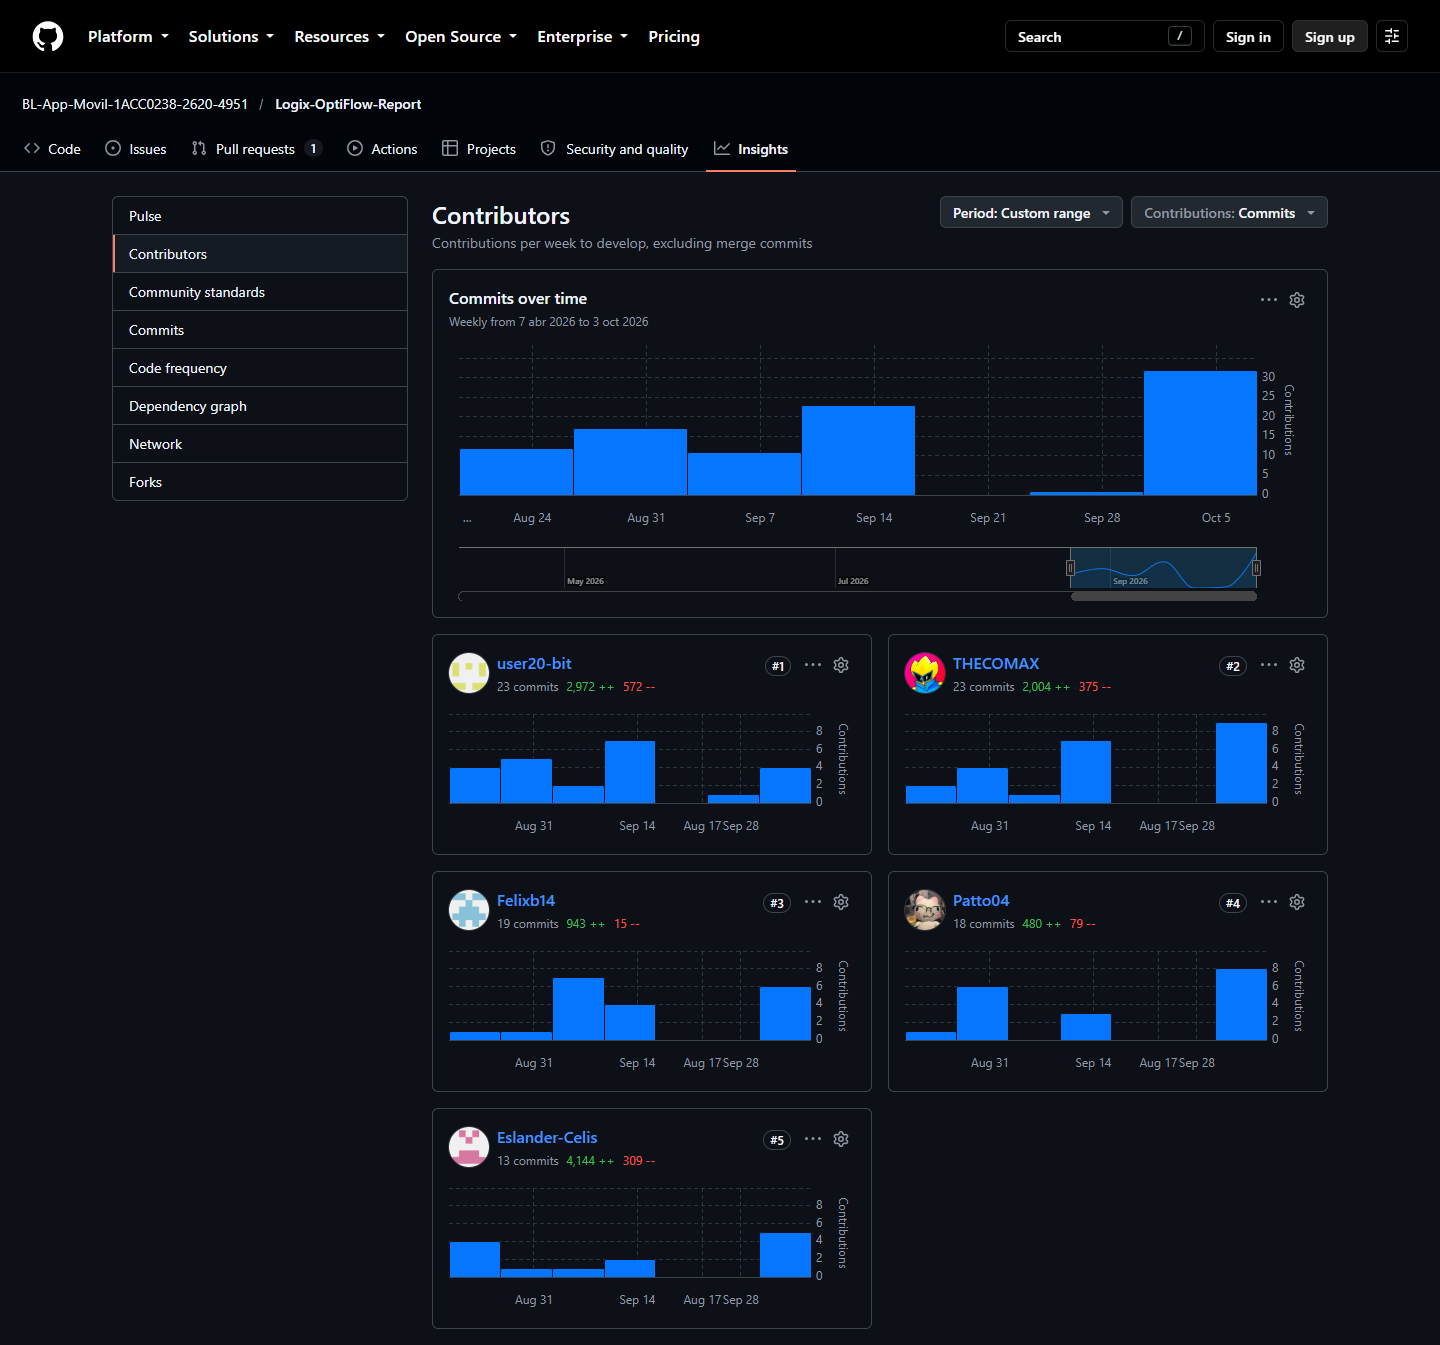
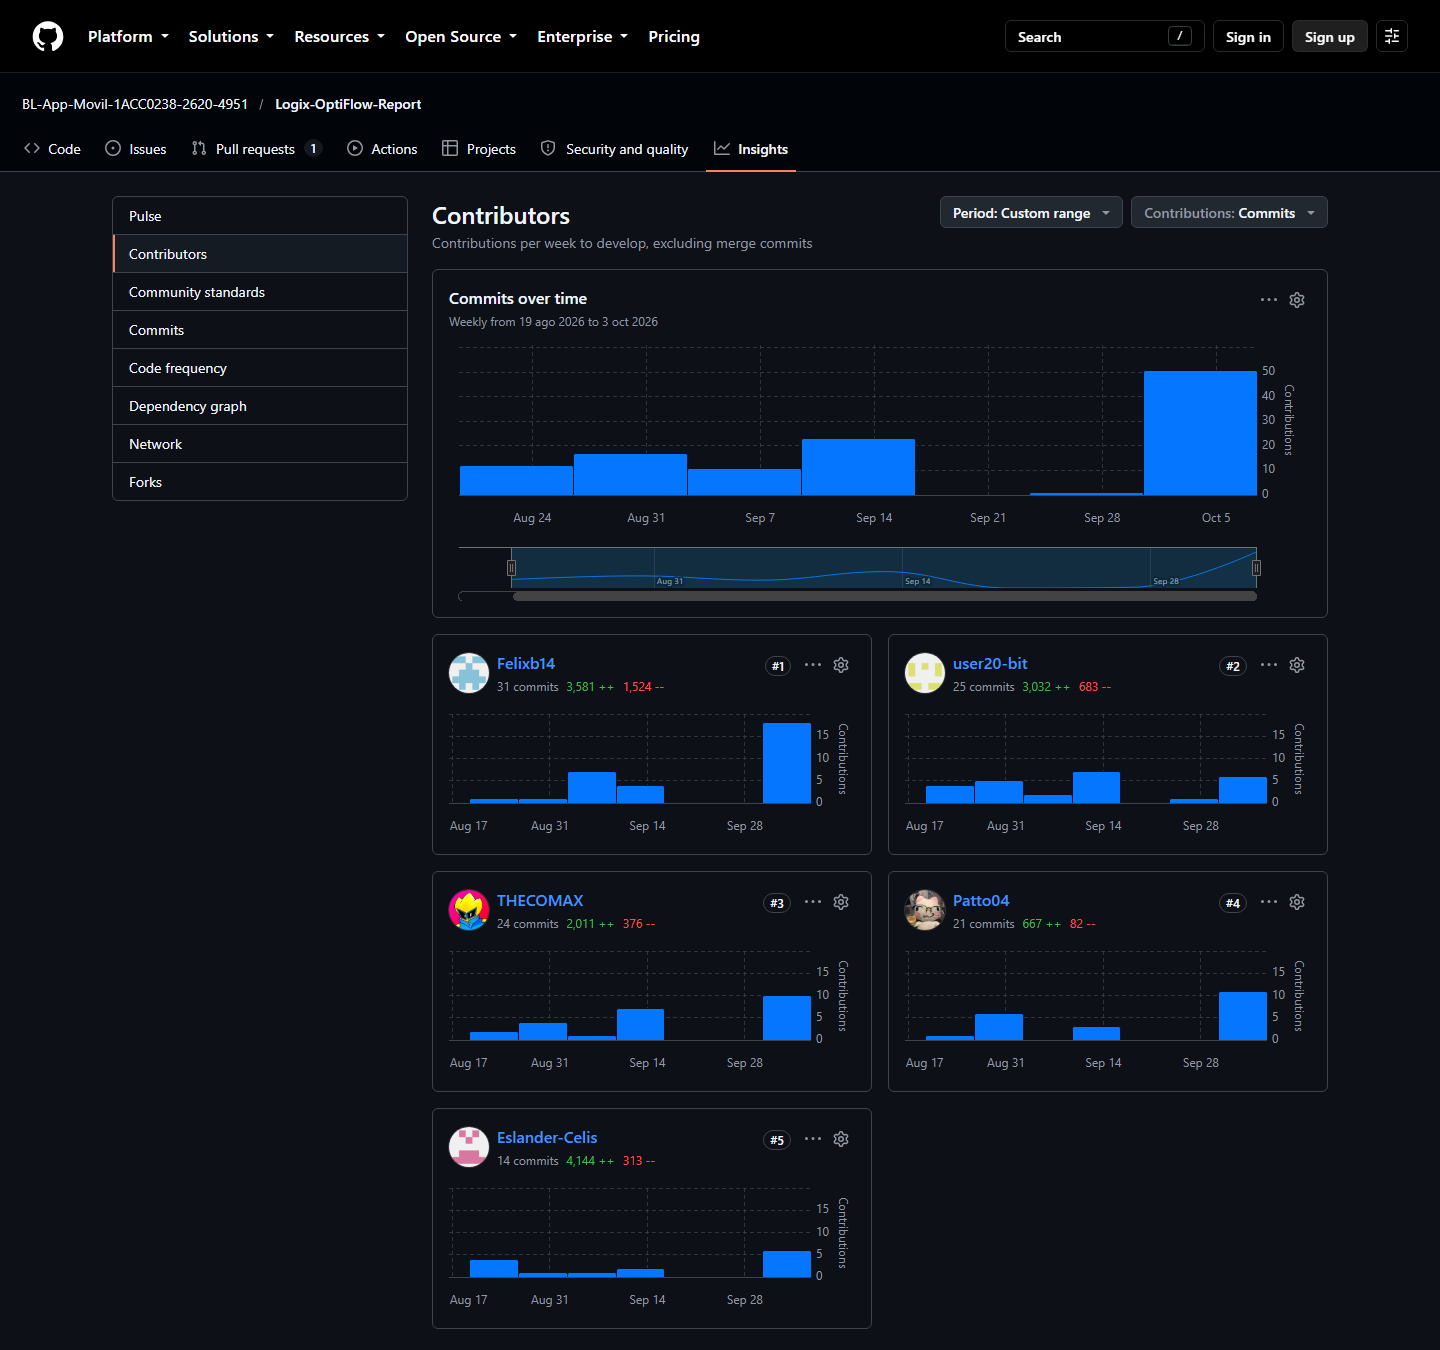
docs: update collaboration insights

diff --git a/README.md b/README.md
@@ -90,7 +90,7 @@ Para el desarrollo del **Project Report**, el equipo utiliza un repositorio dent
 
 **Repositorio del informe del proyecto:** [https://github.com/BL-App-Movil-1ACC0238-2620-4951/Logix-OptiFlow-Report](https://github.com/BL-App-Movil-1ACC0238-2620-4951/Logix-OptiFlow-Report)
 
-- **Total de commits:** 96 commits en `develop` al 8 de octubre de 2026, sin contar los commits de *merge*.
+- **Total de commits:** 115 commits en `develop` al 9 de octubre de 2026, sin contar los commits de *merge*.
 - **Autores contribuyentes:**
   - Atoche Gonzales, Nicolas Fernando (`THECOMAX`)
   - Becerra Ttito, Felix Orlando (`Felixb14`)
@@ -167,10 +167,10 @@ La colaboración fue activa y equitativa, con aportes sustanciales de todos los 
 
 ## TB1 – Semana 7
 
-Durante TB1, el equipo corrigió las observaciones del docente sobre el AV1 y desarrolló los capítulos III y IV del informe. Cada integrante trabajó en ramas creadas desde `develop` e integró sus cambios mediante *pull requests*. Entre el 18 de septiembre y el 8 de octubre de 2026 se registraron 33 commits en `develop`, sin contar los commits de *merge*. El trabajo se distribuyó de la siguiente manera:
+Durante TB1, el equipo corrigió las observaciones del docente sobre el AV1 y desarrolló los capítulos III y IV del informe. Cada integrante trabajó en ramas creadas desde `develop` e integró sus cambios mediante *pull requests*. Entre el 18 de septiembre y el 9 de octubre de 2026 se registraron 52 commits en `develop`, sin contar los commits de *merge*. El trabajo se distribuyó de la siguiente manera:
 
 - **Atoche Gonzales, Nicolas Fernando:** configuración del entorno de desarrollo, gestión del código fuente y configuración de despliegue del Capítulo IV; wireframe, mock-up y prototipo de la Landing Page; corrección del EventStorming y diseño de las entrevistas de validación.
-- **Becerra Ttito, Felix Orlando:** evidencias de documentación de los Web Services, de despliegue y de colaboración del Sprint 1, y formatos del registro de entrevistas y de la evaluación heurística.
+- **Becerra Ttito, Felix Orlando:** evidencias de documentación de los Web Services, de despliegue y de colaboración del Sprint 1; formato del registro de entrevistas; y evaluación heurística de la Landing Page y la aplicación móvil.
 - **Celis Berrospi, Eslander:** Sprint Planning, Aspect Leaders and Collaborators, Sprint Backlog y evidencias de desarrollo, pruebas y ejecución del Sprint 1, además de la corrección de las observaciones del AV1.
 - **Morocho Pinedo, Mariana:** wireframes de la Landing Page y de la aplicación móvil, y wireflows y mock-ups de la aplicación móvil.
 - **Quispe Llacsahuanga, César Augusto:** Capítulo III, con las Style Guidelines, la Information Architecture, los SEO tags y los Navigation Systems.
@@ -208,11 +208,11 @@ Las contribuciones por integrante al repositorio del informe durante TB1 se pres
 
 | Integrante | Usuario GitHub | Commits | Adiciones | Eliminaciones |
 |---|---|---:|---:|---:|
-| Atoche Gonzales, Nicolas Fernando | `THECOMAX` | 9 | 263 | 37 |
-| Becerra Ttito, Felix Orlando | `Felixb14` | 6 | 548 | 2 |
-| Celis Berrospi, Eslander | `Eslander-Celis` | 5 | 3515 | 205 |
-| Morocho Pinedo, Mariana | `Patto04` | 8 | 300 | 3 |
-| Quispe Llacsahuanga, César Augusto | `user20-bit` | 5 | 569 | 92 |
+| Atoche Gonzales, Nicolas Fernando | `THECOMAX` | 10 | 270 | 38 |
+| Becerra Ttito, Felix Orlando | `Felixb14` | 18 | 3186 | 1511 |
+| Celis Berrospi, Eslander | `Eslander-Celis` | 6 | 3515 | 209 |
+| Morocho Pinedo, Mariana | `Patto04` | 11 | 487 | 6 |
+| Quispe Llacsahuanga, César Augusto | `user20-bit` | 7 | 629 | 203 |
 
 
 # Tabla de Contenidos
